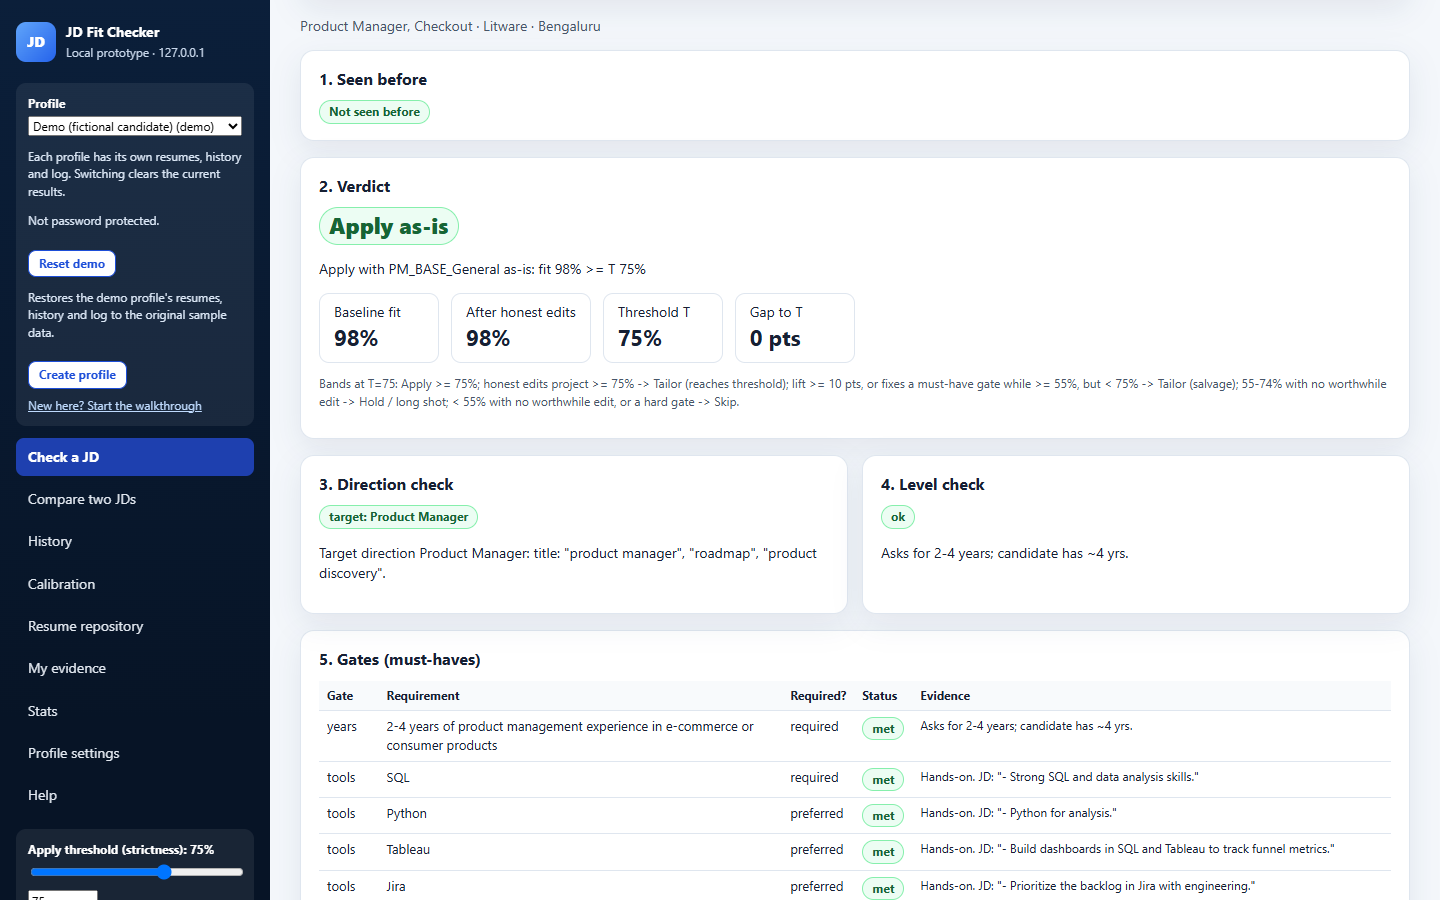
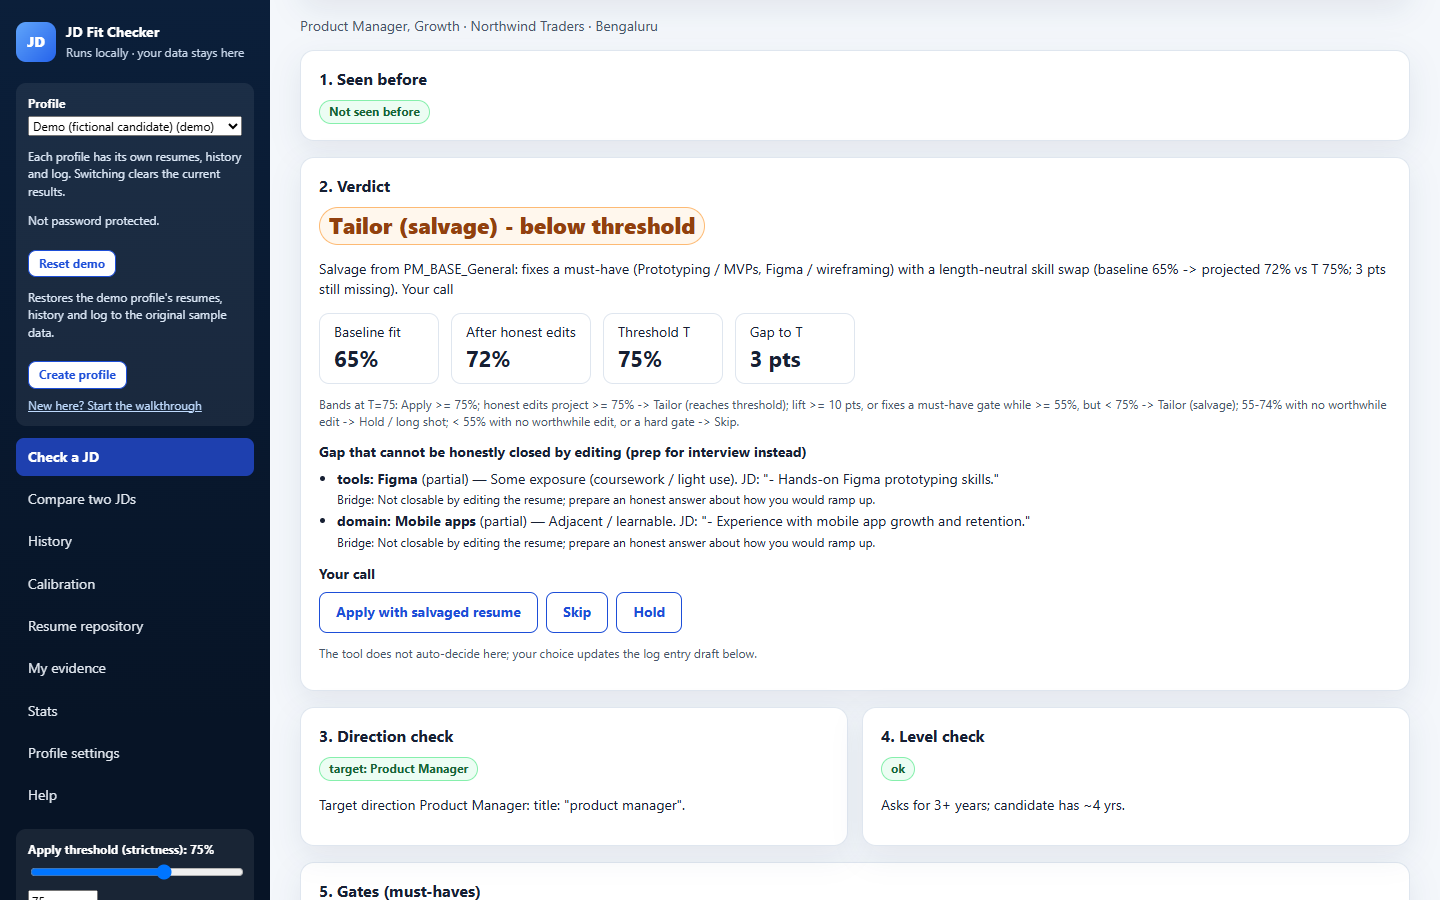
Snap
polish: realistic salvage screenshot, "Runs locally" header, profile folder fix

Changed region(s): [[0.2188, 0.2178, 0.9688, 1.0], [0.2812, 0.0, 0.4375, 0.0311], [0.0625, 0.0311, 0.1562, 0.0622]]

diff --git a/index.html b/index.html
@@ -89,7 +89,7 @@
 <a class="skip-link" href="#jdfcMain">Skip to content</a>
 <div class="app">
   <aside class="sidebar" aria-label="Navigation and settings">
-    <div class="brand"><div class="brand-mark" aria-hidden="true">JD</div><div><strong>JD Fit Checker</strong><span>Local prototype · 127.0.0.1</span></div></div>
+    <div class="brand"><div class="brand-mark" aria-hidden="true">JD</div><div><strong>JD Fit Checker</strong><span>Runs locally · your data stays here</span></div></div>
     <div class="side-box">
       <label for="jdfcProfileSwitch">Profile</label>
       <select id="jdfcProfileSwitch" aria-describedby="profileHelp" style="width:100%"></select>

diff --git a/README.md b/README.md
@@ -9,9 +9,9 @@ Check a job description against your own resumes and get an honest, explainable 
 
 Your resumes never leave your computer. The only outbound request the tool makes is fetching a job-posting URL that you type in yourself.
 
-![JD Fit Checker on the Demo profile: the Check a JD results with the Apply as-is verdict, baseline fit 98% against threshold 75%, direction and level checks, and the must-have gates table](docs/screenshot.png)
+![JD Fit Checker on the Demo profile: the Check a JD results with a Tailor (salvage) verdict, baseline fit 65%, 72% after honest edits, threshold 75% and a 3-point gap, the gaps that editing cannot honestly close, and the direction and level checks](docs/screenshot.png)
 
-*A sample job description checked against the fictional Demo profile: verdict first, then every check behind it.*
+*Example: a salvage verdict on the fictional Demo profile. Honest edits lift the fit from 65% to 72%, still 3 points below the 75% threshold, so the tool shows the gap and leaves the call to you.*
 
 ## Quick start (no typing needed)
 
